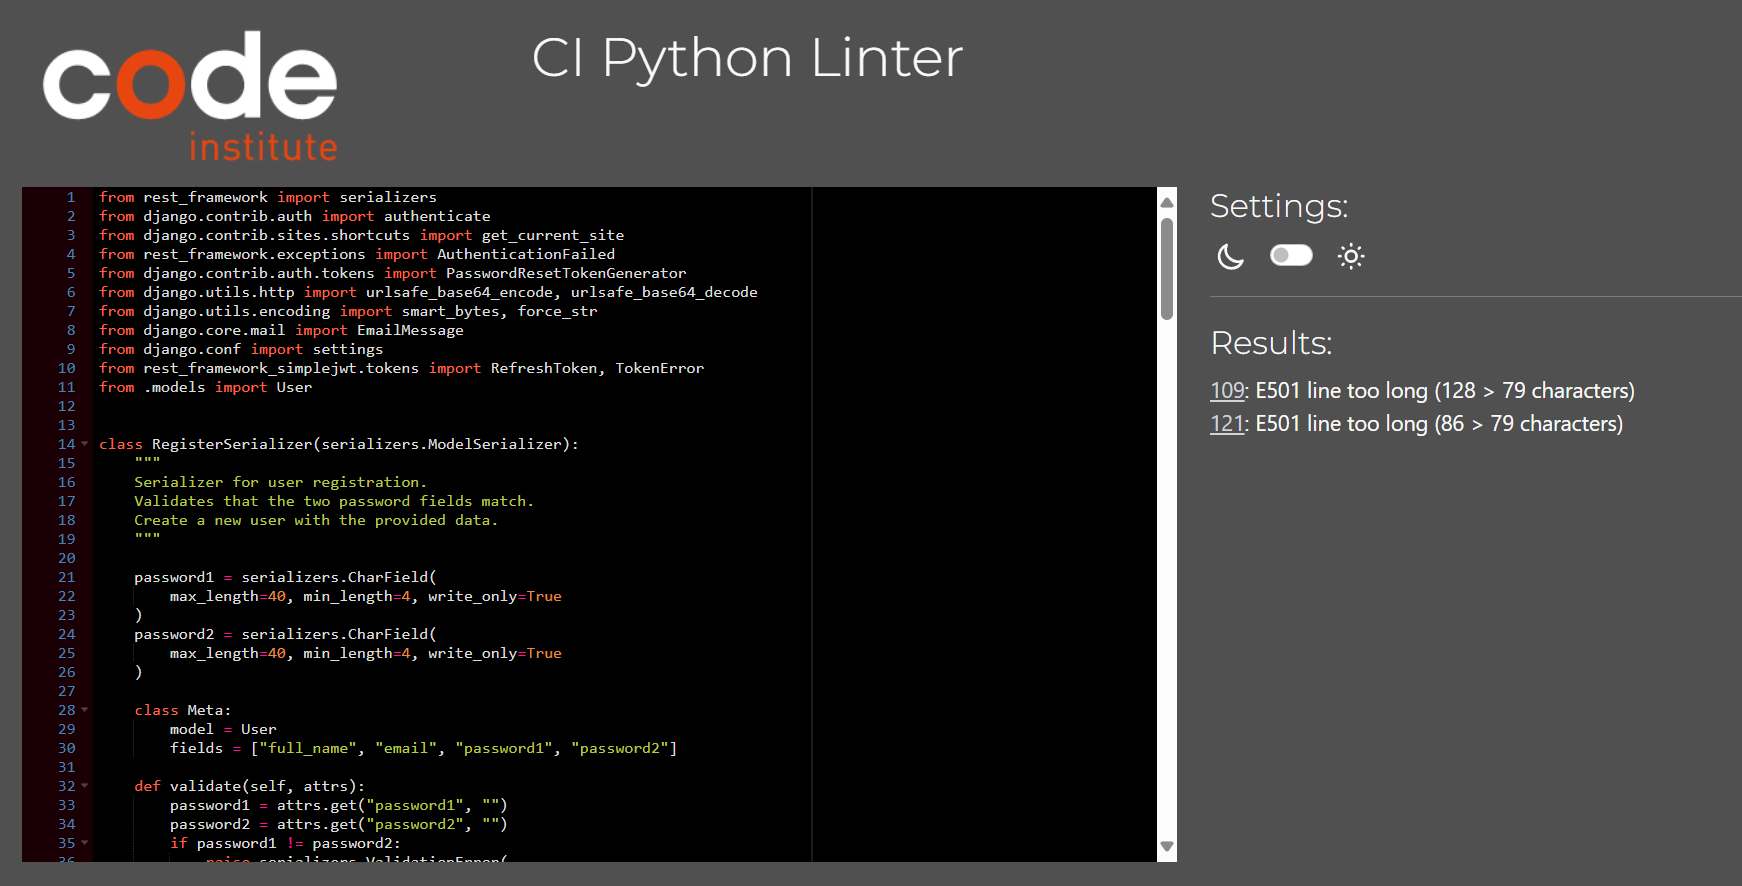
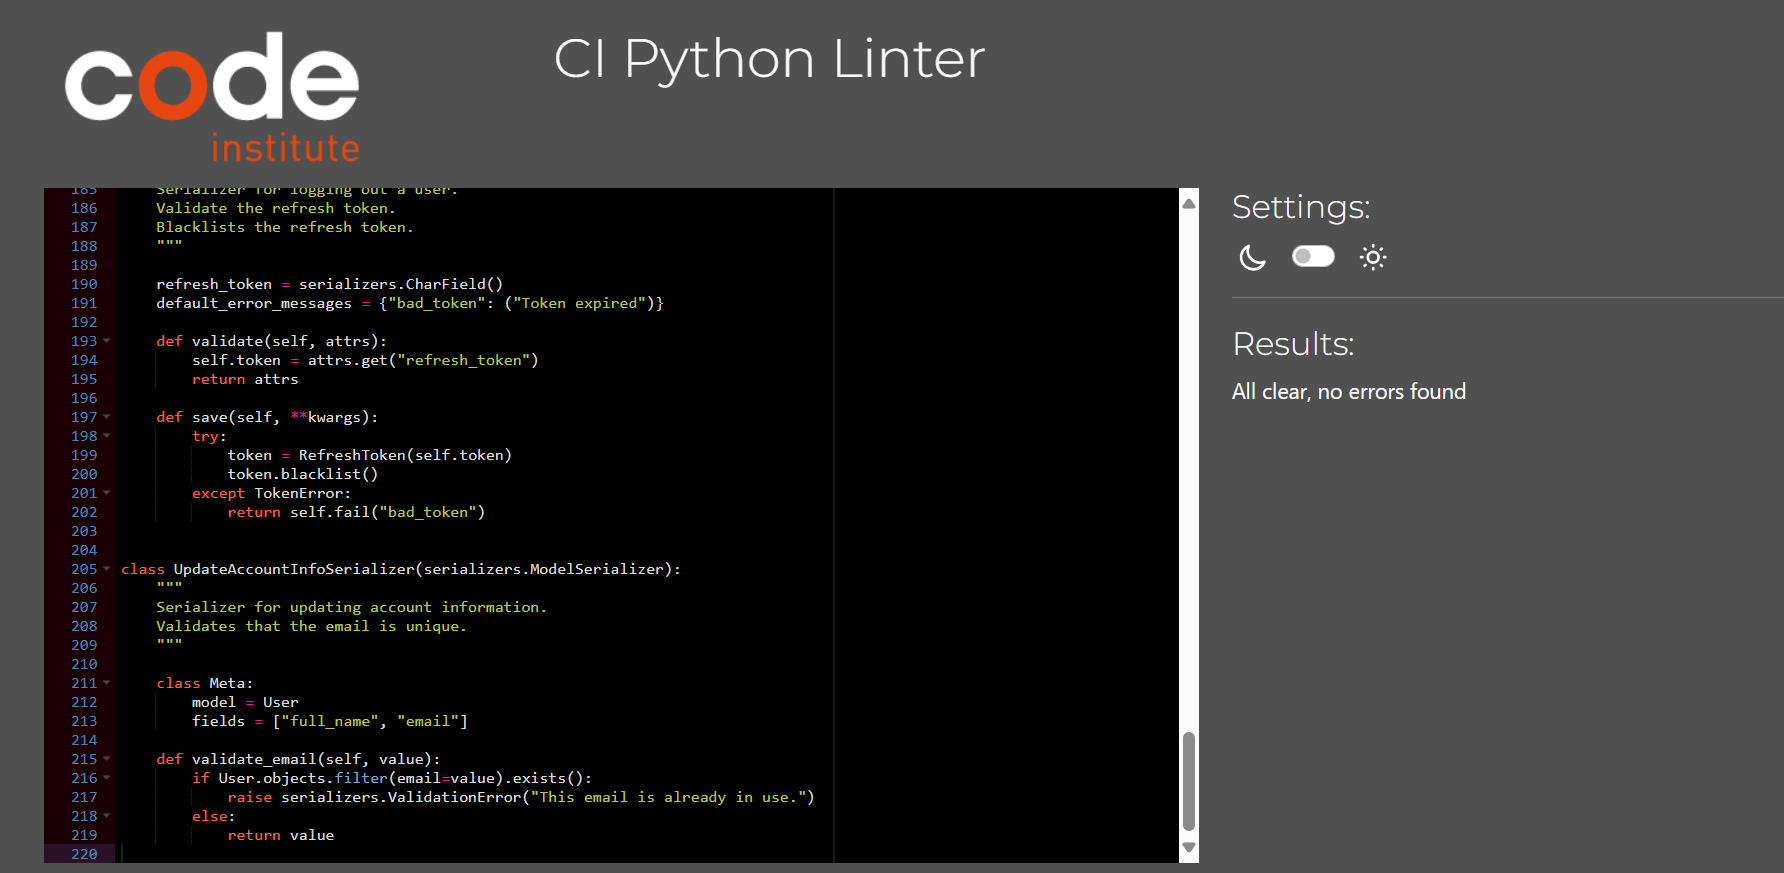
edit serializers.py accounts app 'just edit the email_text structure to be received in readable way to user' + edit readme file 'fixed the pip8 long line errors related to serializers.py' + added accounts_serilaizers.png that proved that the error was fixed

Changed region(s): [[0.0, 0.0309, 0.93, 0.9897], [0.31, 0.0309, 0.558, 0.0928], [0.341, 0.8351, 0.372, 0.866]]

diff --git a/accounts/serializers.py b/accounts/serializers.py
@@ -112,8 +112,10 @@ class PasswordResetSerializer(serializers.Serializer):
             )
             data = {
                 "email_subject": "Link to reset your password",
-                "email_text": f"""Hello, please use the link below to reset
-                the password \n {absolute_link}""",
+                "email_text": (
+                    "Hello, please use the link below to reset the password"
+                    f"\n{absolute_link}"
+                ),
                 "to": user.email,
             }
         else:

diff --git a/README.md b/README.md
@@ -96,7 +96,7 @@ The Techplaza platform project has been tested rigorously throughout the develop
 | accounts app - admin.py | [PEP8 - CI](https://pep8ci.herokuapp.com/) | [No issues found](static/readme/accounts_admin.png) | ✅ |
 | accounts app - managers.py | [PEP8 - CI](https://pep8ci.herokuapp.com/) | [No issues found](static/readme/accounts_managers.png) | ✅ |
 | accounts app - models.py | [PEP8 - CI](https://pep8ci.herokuapp.com/) | [No issues found](static/images/readme/accounts_models.png) | ✅ |
-| accounts app - serializers.py | [PEP8 - CI](https://pep8ci.herokuapp.com/)  | No issues found | [E501 line too long (128 > 79 characters - Frontend App path/link)](static/readme/accounts_serializers.png) |
+| accounts app - serializers.py | [PEP8 - CI](https://pep8ci.herokuapp.com/)  | [No issues found](static/images/readme/accounts_serializers.png) | ✅ |
 | accounts app - urls.py | [PEP8 - CI](https://pep8ci.herokuapp.com/) | [No issues found](static/readme/accounts_urls.png) | ✅ |
 | accounts app - views.py | [PEP8 - CI](https://pep8ci.herokuapp.com/) | [No issues found](static/readme/accounts_views.png) | ✅ |
 | snake game app - admin.py | [PEP8 - CI](https://pep8ci.herokuapp.com/) | [No issues found](static/readme/snake_admin.png) | ✅ |
